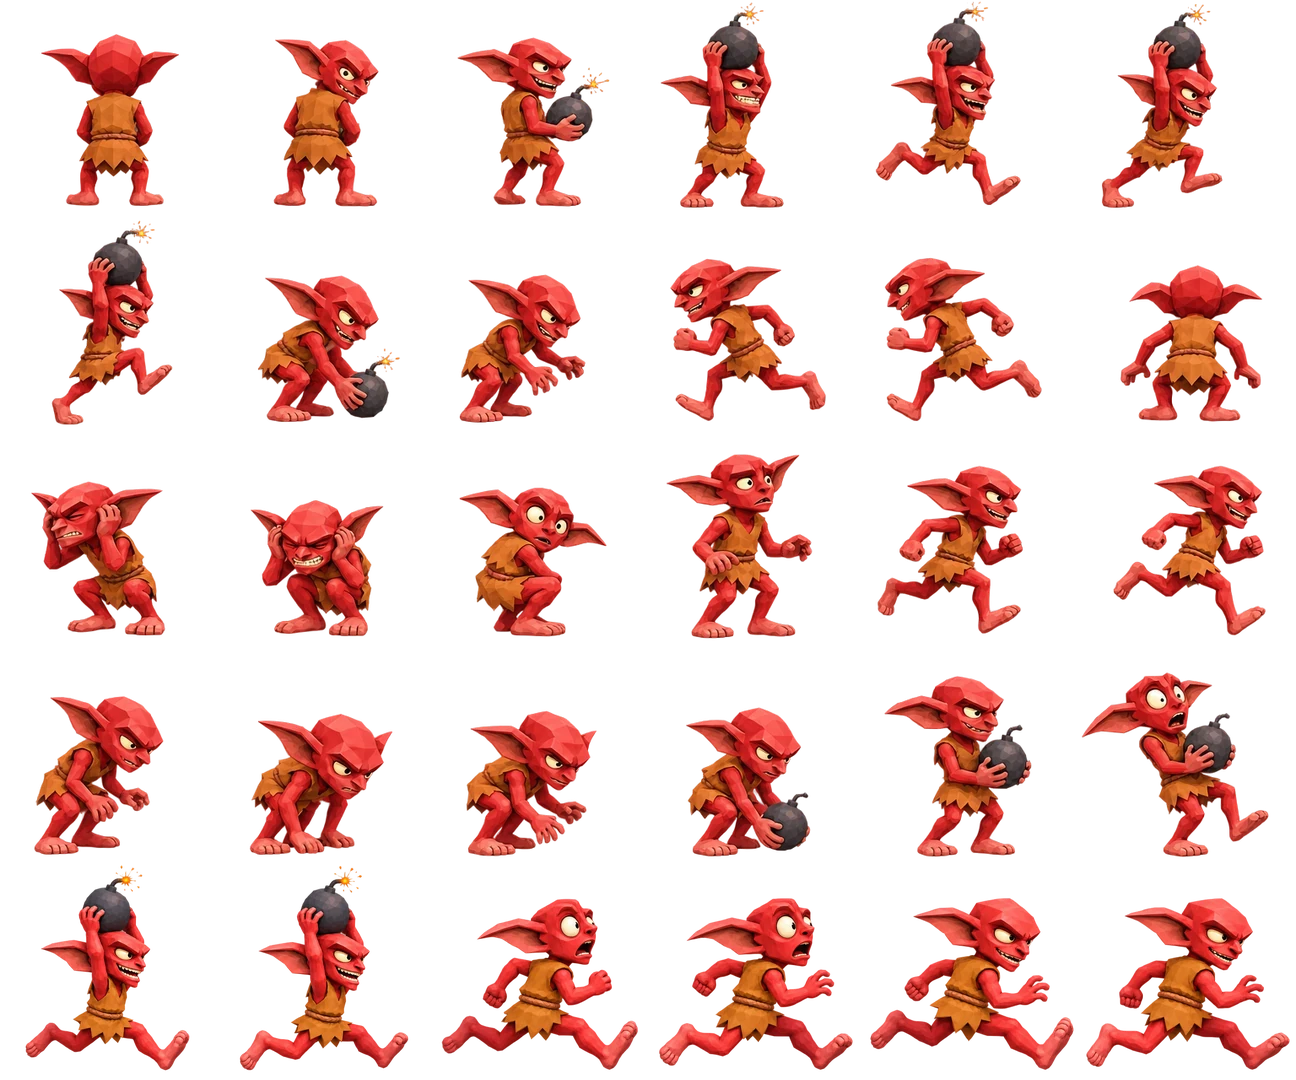
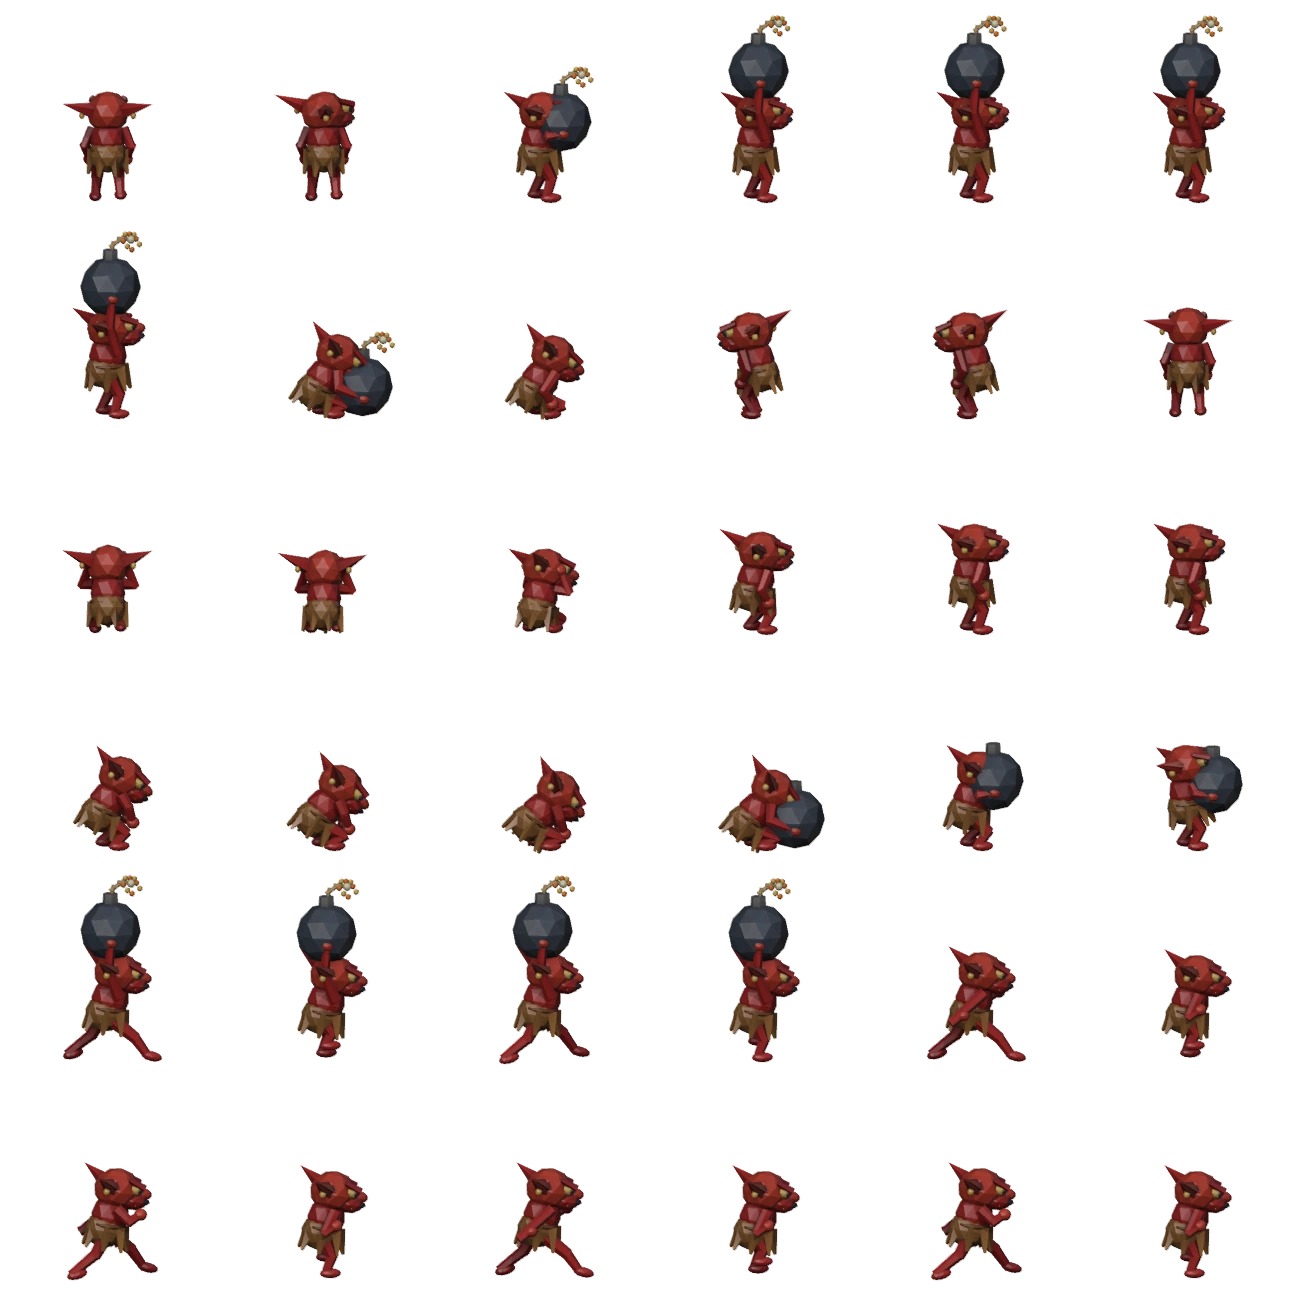
Rebuild Kamikaze gremlin with a consistent rig and alternating strides

diff --git a/assets/kamikaze.js b/assets/kamikaze.js
@@ -1,12 +1,12 @@
 (()=>{
   const atlas=new Image(),listeners=[];
   atlas.onload=()=>listeners.splice(0).forEach(fn=>fn());
-  atlas.src='./assets/gremlin-poses.webp?v=0.217.0';
+  atlas.src='./assets/gremlin-poses.webp?v=0.218.0';
   const clamp=x=>Math.max(0,Math.min(1,x));
   const mix=(a,b,q)=>a+(b-a)*q;
   const ease=x=>x*x*(3-2*x);
   const poses=[0,.092,.113,.133,.168,.202,.235,.278,.323,.344,.392,.435,.459,.497,.58,.632,.667,.70,.746,.776,.803,.826,.853,.867];
-  const setDown=.323,fuseOut=.554,pickup=.826,size=143;
+  const setDown=.323,fuseOut=.554,pickup=.826,size=117;
   const tau=Math.PI*2;
   function position(target,p){
     const dir=target.x>=500?1:-1;
@@ -41,12 +41,12 @@
     let pose=poses.findLastIndex(time=>p>=time);
     let direction=point.dir;
     if(p>=.155&&p<.278){
-      pose=24+Math.floor((p-.155)/.031)%2;
+      pose=24+Math.floor((p-.155)/.0155)%4;
     }else if(p>=.35&&p<.445){
-      pose=26+Math.floor((p-.35)/.024)%2;
+      pose=28+Math.floor((p-.35)/.012)%4;
       direction=-direction;
     }else if(p>=.65&&p<.746){
-      pose=28+Math.floor((p-.65)/.024)%2;
+      pose=32+Math.floor((p-.65)/.012)%4;
     }
     g.save();g.translate(point.x,point.y);g.scale(direction,1);
     g.globalAlpha=clamp(p/.047);
@@ -54,16 +54,16 @@
     g.restore();
   }
   function plantedBomb(g,x,y,p){
-    const r=15;
+    const r=19;
     const ball=g.createRadialGradient(x-6,y-8,1,x,y,r);
     ball.addColorStop(0,'#687078');ball.addColorStop(.50,'#333740');ball.addColorStop(1,'#151822');
     g.fillStyle=ball;g.beginPath();g.arc(x,y,r,0,tau);g.fill();
-    g.fillStyle='#67604c';g.fillRect(x-4,y-17,8,4);
+    g.fillStyle='#67604c';g.fillRect(x-4,y-21,8,4);
     if(p<fuseOut){
       const length=(1-clamp((p-setDown)/(fuseOut-setDown)))*19;
       g.strokeStyle='#b59b6d';g.lineWidth=2.2;
-      g.beginPath();g.moveTo(x,y-17);g.quadraticCurveTo(x+length*.22,y-17-length,x+length*.55,y-18-length);g.stroke();
-      spark(g,x+length*.55,y-18-length,p);
+      g.beginPath();g.moveTo(x,y-21);g.quadraticCurveTo(x+length*.22,y-21-length,x+length*.55,y-22-length);g.stroke();
+      spark(g,x+length*.55,y-22-length,p);
     }
   }
   function blast(g,x,y,q){
@@ -100,11 +100,11 @@
   }
   function bomb(g,{target,progress:p,hit}){
     const {dir}=position(target,p);
-    const x=target.x-dir*42;
+    const x=target.x-dir*50;
     if(p>=hit){
       blast(g,x,target.y-63,clamp((p-hit)/(1-hit)));
     }else if(p>=setDown&&p<pickup){
-      plantedBomb(g,x,target.y-14,p);
+      plantedBomb(g,x,target.y-18,p);
     }
   }
   window.Kamikaze={

diff --git a/arena.html b/arena.html
@@ -264,8 +264,8 @@
 <script src="./assets/totally-rad.js?v=0.211.0" defer></script>
 <script src="./assets/lightning-ball.js?v=0.212.0" defer></script>
 <script src="./assets/wicked-witch.js?v=0.216.0" defer></script>
-<script src="./assets/kamikaze.js?v=0.217.0" defer></script>
-<script src="./arena.js?v=0.217.0" defer></script>
+<script src="./assets/kamikaze.js?v=0.218.0" defer></script>
+<script src="./arena.js?v=0.218.0" defer></script>
 <script src="./assets/wizard-home-v135.js?v=0.215.0" defer></script>
 </body>
 </html>

diff --git a/tools/render-kamikaze.py b/tools/render-kamikaze.py
@@ -1,0 +1,204 @@
+"""Render the 36 transparent Kamikaze? poses with Blender in background mode."""
+import math
+from pathlib import Path
+import sys
+
+import bpy
+from mathutils import Vector
+
+bpy.ops.wm.read_factory_settings(use_empty=True)
+scene = bpy.context.scene
+scene.render.engine = 'BLENDER_WORKBENCH'
+scene.render.resolution_x = scene.render.resolution_y = 216
+scene.render.resolution_percentage = 100
+scene.render.film_transparent = True
+scene.render.image_settings.color_mode = 'RGBA'
+shading = scene.display.shading
+shading.light = 'STUDIO'
+shading.studiolight_rotate_z = .35
+shading.color_type = 'OBJECT'
+shading.show_shadows = True
+shading.show_cavity = True
+shading.cavity_type = 'BOTH'
+shading.show_specular_highlight = True
+scene.view_settings.view_transform = 'Standard'
+
+RED = (.65, .038, .035, 1)
+DARK = (.38, .018, .021, 1)
+LIGHT = (.83, .079, .045, 1)
+LEATHER = (.51, .22, .065, 1)
+BONE = (1, .81, .49, 1)
+GOLD = (1, .63, .15, 1)
+INK = (.055, .039, .054, 1)
+IRON = (.10, .12, .16, 1)
+
+
+def group(parent=None):
+    obj = bpy.data.objects.new('Joint', None)
+    scene.collection.objects.link(obj)
+    obj.parent = parent
+    return obj
+
+
+def gem(parent, loc, size, color, detail=1):
+    bpy.ops.mesh.primitive_ico_sphere_add(subdivisions=detail)
+    obj = bpy.context.object
+    obj.parent, obj.location, obj.scale, obj.color = parent, loc, size, color
+    return obj
+
+
+def segment(parent, color, taper=.74, sides=7):
+    bpy.ops.mesh.primitive_cone_add(vertices=sides, radius1=1, radius2=taper, depth=2)
+    obj = bpy.context.object
+    obj.parent, obj.color = parent, color
+    return obj
+
+
+def aim(obj, start, end, radius):
+    start, end = Vector(start), Vector(end)
+    delta = end - start
+    obj.location = (start + end) / 2
+    obj.rotation_euler = delta.to_track_quat('Z', 'Y').to_euler()
+    obj.scale = radius, radius, delta.length / 2 + .045
+
+
+root = group()
+torso = group(root)
+gem(torso, (0, 0, 0), (.35, .32, .43), RED, 2)
+gem(torso, (-.05, 0, -.25), (.37, .35, .35), LEATHER, 2)
+gem(torso, (-.02, 0, -.16), (.375, .36, .105), (.26, .086, .025, 1), 2)
+for i in range(7):
+    angle = math.tau * i / 7
+    flap = segment(torso, LEATHER, .23, 4)
+    x, y = math.cos(angle), math.sin(angle)
+    aim(flap, (.28*x, .27*y, -.22), (.41*x, .36*y, -.57), .13)
+head = group(torso)
+gem(head, (0, 0, .03), (.43, .39, .39), LIGHT, 2)
+gem(head, (.28, 0, -.11), (.33, .30, .20), RED, 2)
+gem(head, (.44, 0, -.115), (.203, .24, .075), INK, 2)
+gem(head, (.48, 0, .018), (.18, .14, .115), LIGHT, 2)
+for side in (-1, 1):
+    ear = segment(head, RED, 0, 5)
+    aim(ear, (-.16, side*.27, .085), (-.51, side*.79, .27), .17)
+    inner = segment(head, (.88, .21, .14, 1), 0, 3)
+    aim(inner, (-.06, side*.30, .11), (-.39, side*.71, .248), .098)
+    gem(head, (.303, side*.242, .105), (.136, .097, .106), GOLD, 2)
+    gem(head, (.365, side*.304, .107), (.055, .035, .069), INK, 2)
+    brow = segment(head, DARK)
+    aim(brow, (.405, side*.29, .18), (.19, side*.279, .254), .071)
+    for i in range(3):
+        tooth = segment(head, BONE, 0, 4)
+        aim(tooth, (.44-i*.052, side*(.164+i*.036), -.103), (.455-i*.052, side*(.18+i*.036), -.161), .026)
+    gem(head, (-.27, side*.47, .022), (.063, .052, .07), GOLD, 2)
+
+limbs = []
+for side in (-1, 1):
+    skin = RED if side < 0 else DARK
+    limbs.append(tuple(segment(root, skin) for _ in range(4)) + (
+        gem(root, (0, 0, 0), (.20, .117, .093), skin, 2),
+        gem(root, (0, 0, 0), (.125, .115, .115), LIGHT if side < 0 else skin, 2)))
+
+bomb = group(root)
+bomb.scale = (1.55,) * 3
+gem(bomb, (0, 0, 0), (.36, .36, .36), IRON, 2)
+cap = segment(bomb, (.23, .22, .225, 1), .88)
+aim(cap, (0, 0, .29), (0, 0, .40), .10)
+fuse = group(bomb)
+for start, end in [((0,0,.37),(.028,0,.50)), ((.028,0,.50),(.13,0,.57)), ((.13,0,.57),(.24,0,.56))]:
+    aim(segment(fuse, (.70, .46, .21, 1), .96), start, end, .026)
+for i in range(8):
+    a = i*2.39996
+    r = .065+(i%3)*.03
+    gem(fuse, (.245+math.cos(a)*r, -.02, .56+math.sin(a)*r), (.038,.023,.038), GOLD if i%2 else (1,.26,.033,1))
+gem(fuse, (.24, -.04, .56), (.050, .036, .050), (1,.92,.59,1), 2)
+
+bpy.ops.object.camera_add(location=(0, -9, 3.48))
+camera = bpy.context.object
+camera.rotation_euler = (Vector((0, 0, 1.75))-camera.location).to_track_quat('-Z','Y').to_euler()
+camera.data.type = 'ORTHO'
+camera.data.ortho_scale = 3.95
+scene.camera = camera
+
+# yaw points the face away at first. Lean, knee bend, and head turn tell the story.
+poses = [
+    ('idle',1.55,0,0,0), ('idle',1.55,0,0,-.95),
+    ('hold',.22,0,0,0), ('lift',.21,0,0,0),
+    ('lift',.21,0,0,0), ('lift',.21,0,0,0), ('lift',.21,0,0,0),
+    ('place',.18,.43,.46,0), ('empty',.20,.46,.43,0),
+    ('empty',2.78,.08,.12,0), ('empty',2.78,.08,.12,0),
+    ('idle',1.57,0,0,0), ('ears',1.54,.40,.20,0),
+    ('ears',1.46,.49,.25,0), ('ears',.91,.46,.24,-.65),
+    ('idle',.24,.14,.1,.13), ('idle',.19,0,0,0), ('idle',.19,0,0,0),
+    ('check',.22,.26,.42,-.10), ('check',.21,.38,.56,-.08),
+    ('check',.19,.47,.64,-.06), ('scoop',.17,.46,.58,0),
+    ('hold',.18,.20,.19,0), ('uh-oh',.13,.09,-.13,-.13),
+]
+
+
+def draw(index):
+    phase = None
+    if index < len(poses):
+        act, yaw, crouch, lean, turn = poses[index]
+    else:
+        style, step = divmod(index - len(poses), 4)
+        phase = step*math.tau/4
+        act = ('lift', 'flee', 'dash')[style]
+        yaw, crouch, lean, turn = .16, -.025-.055*abs(math.cos(phase)), .17, 0
+    root.rotation_euler.z = yaw
+    torso.location = (.04 if phase is not None else 0, 0, 1.15-crouch)
+    torso.rotation_euler.y = lean
+    head.location = (.045, 0, .48)
+    head.rotation_euler = (0, lean*.19, turn)
+    bomb.location = (.40, 0, 1.48-crouch)
+    if act == 'lift':
+        bomb.location = (.05, 0, 2.44-crouch)
+    elif act == 'place' or act == 'scoop':
+        bomb.location = (.72, 0, .56)
+    elif act == 'uh-oh':
+        bomb.location = (.46, 0, 1.22)
+
+    fuse.rotation_euler.z = .08 * math.sin(index*2.4)
+    for obj in bomb.children_recursive:
+        obj.hide_render = act not in ('hold','lift','place','scoop','uh-oh') or (
+            (obj == fuse or obj.parent == fuse) and 21 <= index <= 23)
+
+    for i, side in enumerate((-1,1)):
+        thigh, shin, bicep, forearm, foot, palm = limbs[i]
+        swing = phase + i*math.pi if phase is not None else None
+        offset = .075 if side < 0 else -.075
+        stride = math.cos(swing)*.69 if swing is not None else offset
+        lift = (.11+.22*max(0,math.sin(swing))) if swing is not None else .016
+        hip = (-.03, side*.155, .87-crouch)
+        knee = (stride*.52+.13+crouch*.41, side*.20, .46-crouch*.48+lift*.52)
+        ankle = (stride, side*.23, .115+lift)
+        aim(thigh, hip, knee, .149)
+        aim(shin, knee, ankle, .109)
+        foot.location = (ankle[0]+.085, ankle[1], ankle[2]-.024)
+        foot.rotation_euler.y = .27*math.cos(swing) if swing is not None else 0
+        shoulder = (.11+lean*.23, side*.29, 1.30-crouch)
+        hand = (.16, side*.34, .77-crouch)
+        elbow = (-.01, side*.42, 1.04-crouch)
+        if act in ('lift', 'place', 'scoop', 'hold', 'uh-oh'):
+            bx, _, bz = bomb.location
+            hand = (bx-.055, side*.43, bz-.14)
+            elbow = (bx*.38-.07, side*.39, (shoulder[2]+hand[2])*.5-.02)
+        elif act == 'ears':
+            hand = (.07+lean*.42, side*.345, 1.66-crouch)
+            elbow = (.24, side*.47, 1.27-crouch)
+        elif act == 'check':
+            hand = (.42, side*.22, .79-crouch)
+            elbow = (.31, side*.34, 1.10-crouch)
+        elif swing is not None:
+            hand = (-.38*math.cos(swing)+.17, side*.34, 1.08-crouch-.14*math.cos(swing))
+            elbow = (hand[0]-.21, side*.37, hand[2]-.12)
+        aim(bicep, shoulder, elbow, .112)
+        aim(forearm, elbow, hand, .096)
+        palm.location = hand
+
+
+output = Path(sys.argv[sys.argv.index('--')+1])
+output.mkdir(parents=True, exist_ok=True)
+for index in range(36):
+    draw(index)
+    scene.render.filepath = str(output / f'{index:02d}.png')
+    bpy.ops.render.render(write_still=True)
